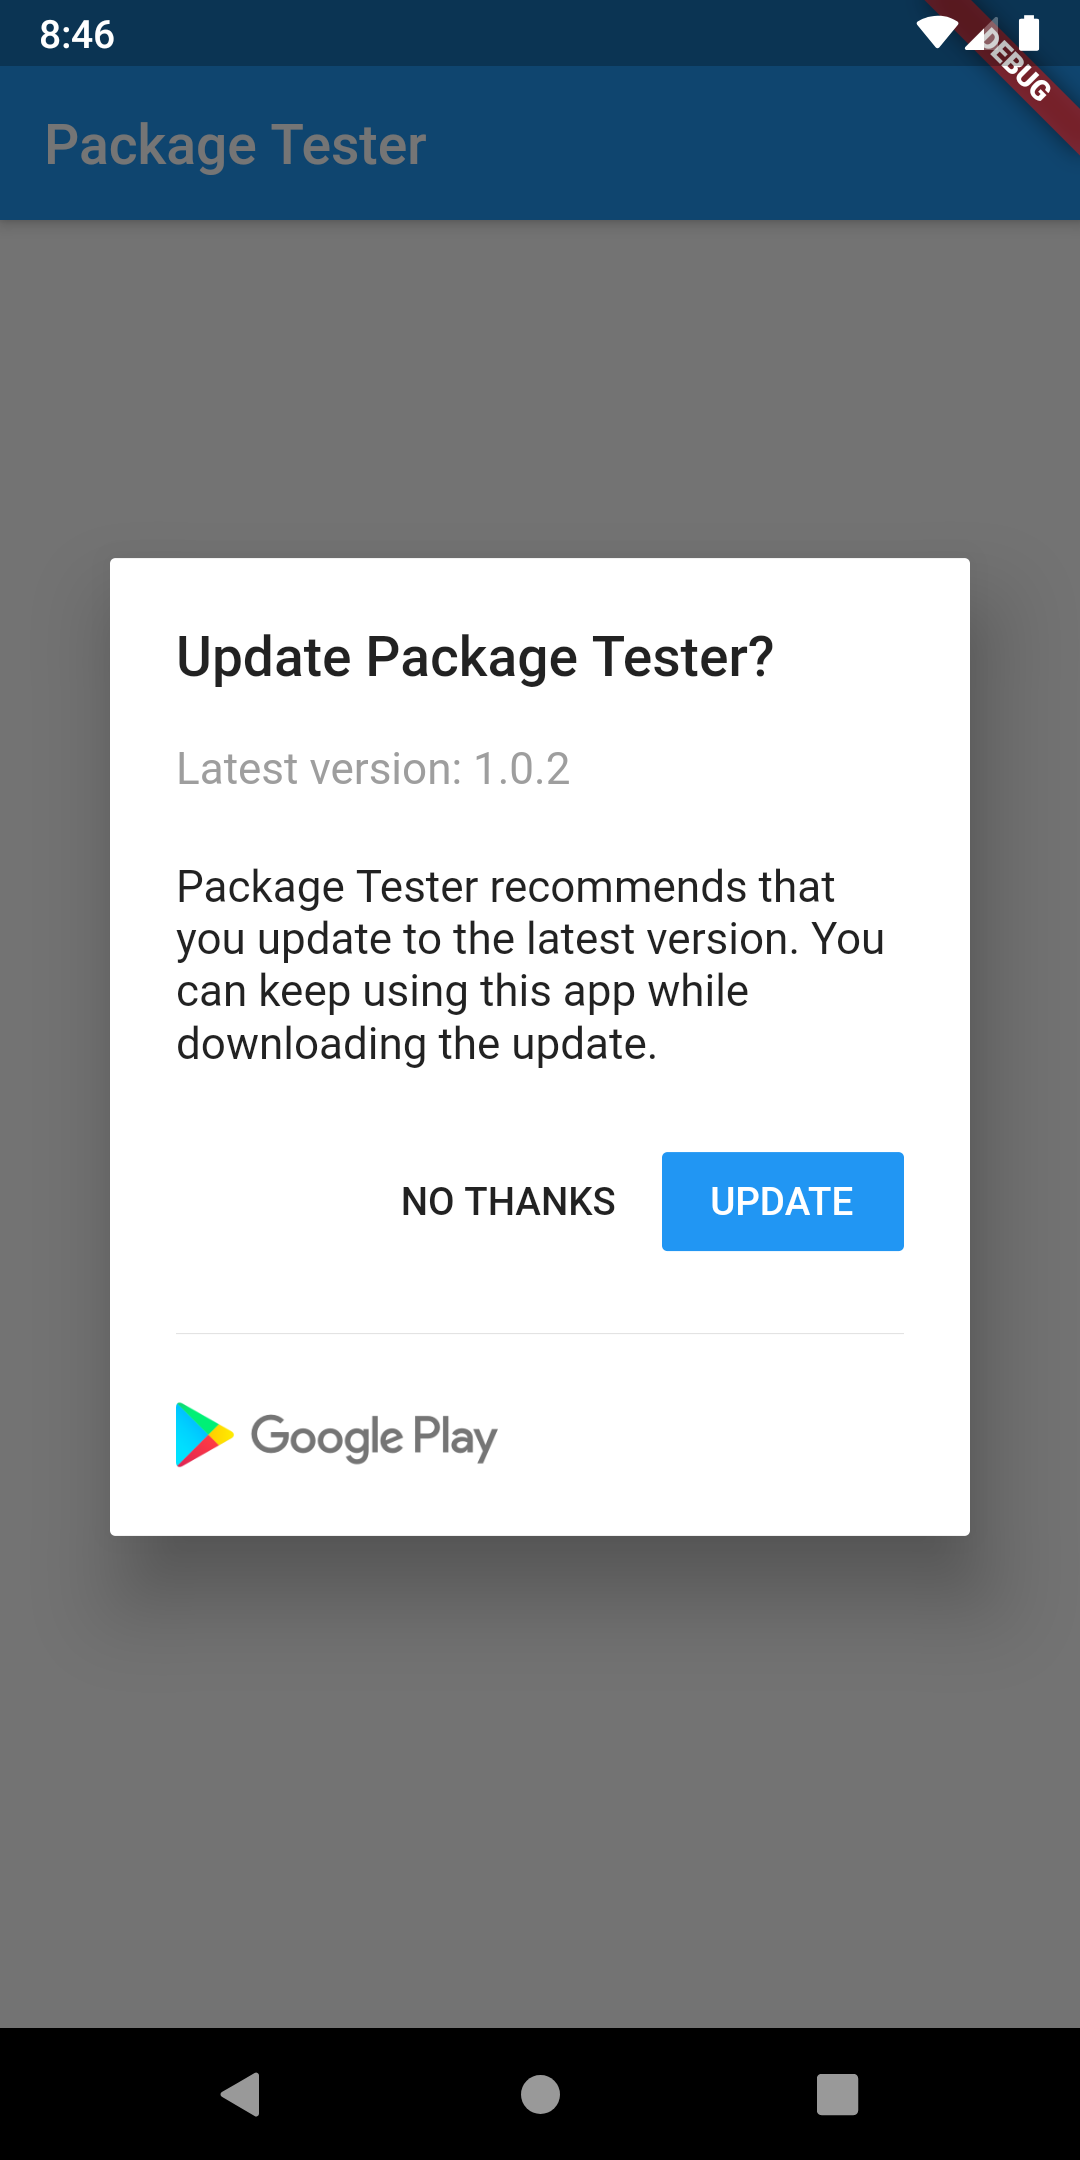
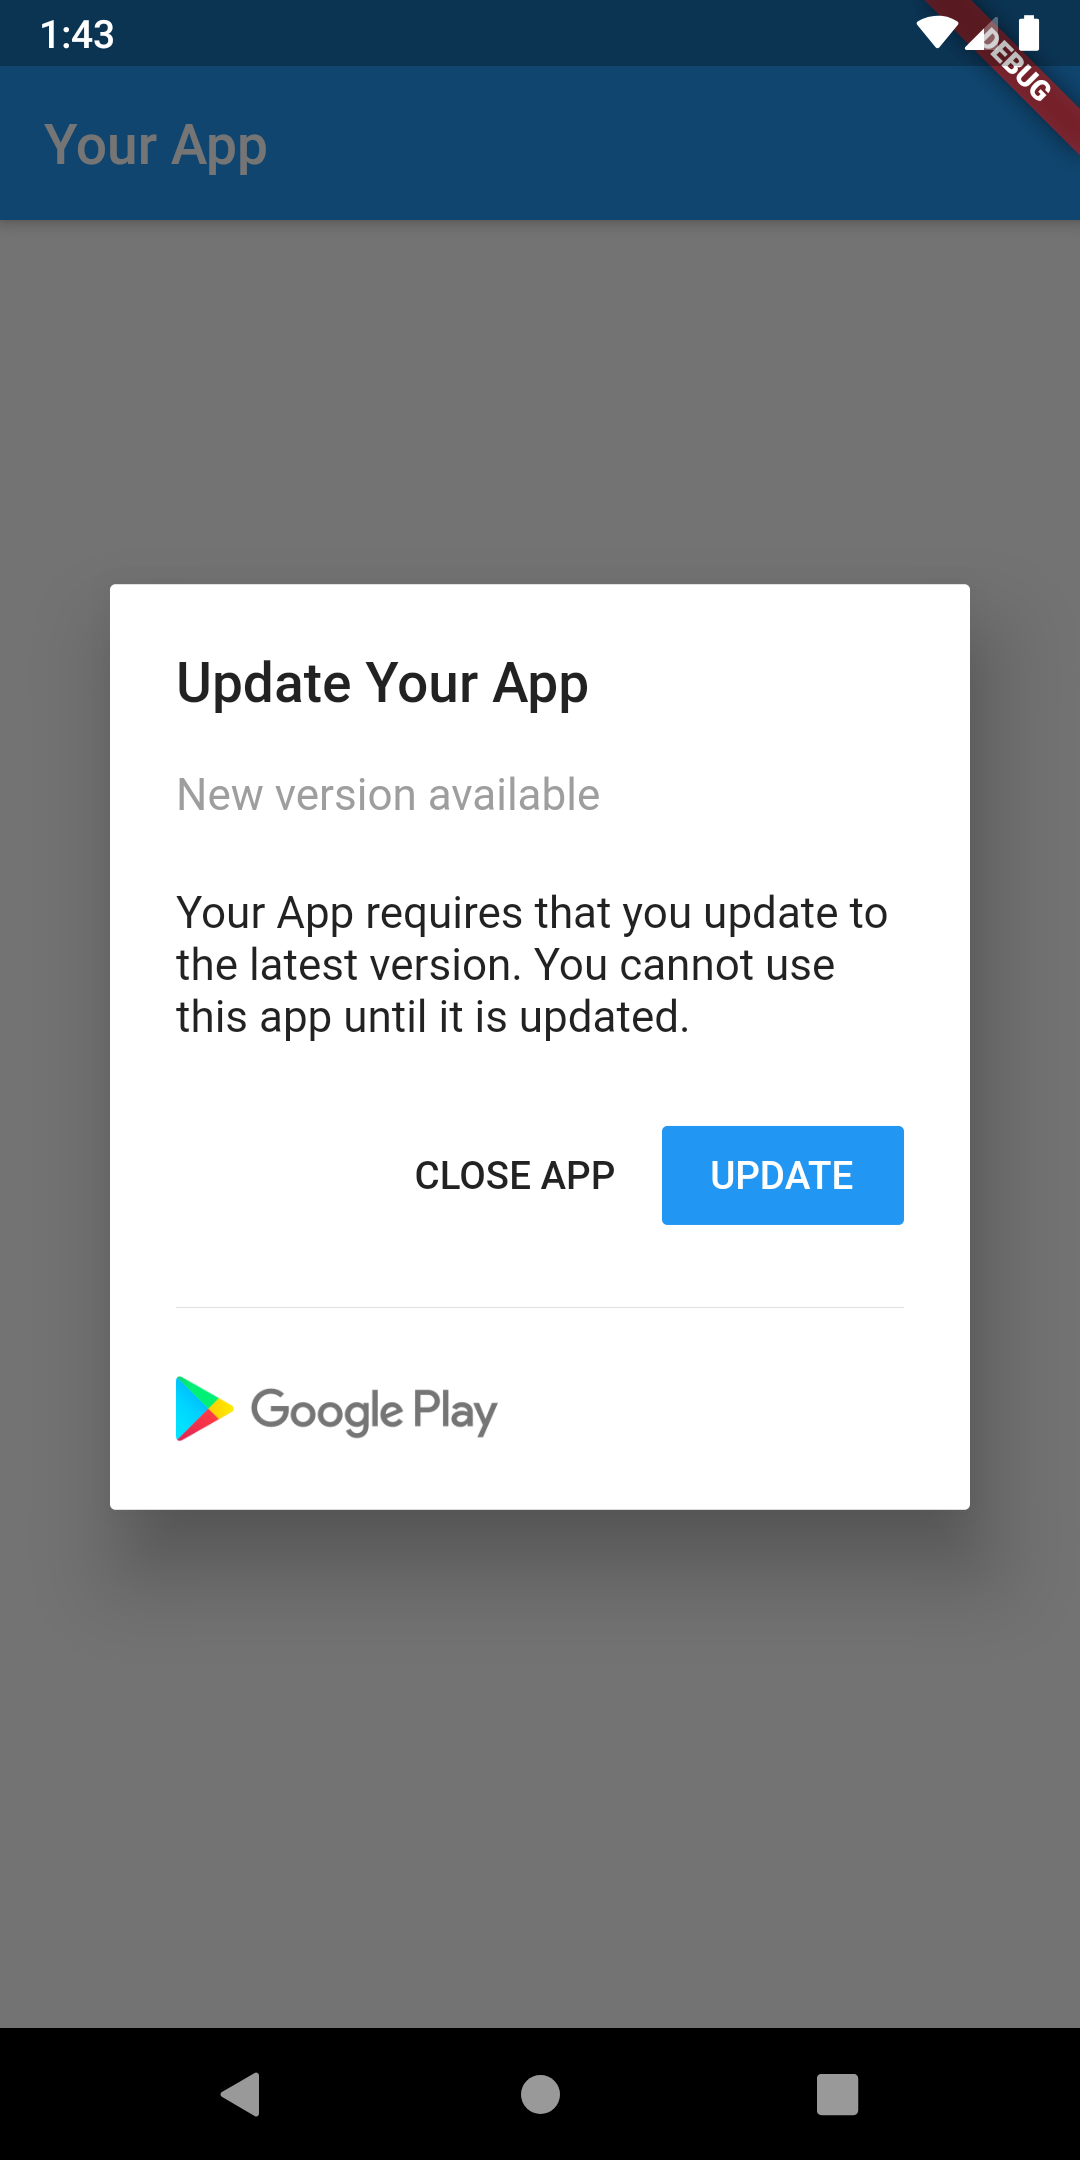
Change checkVersion params
Because the alert only displayed when there is a true / false
condition that requires an update based on the user defined logic.

diff --git a/lib/src/native_updater.dart b/lib/src/native_updater.dart
@@ -8,7 +8,6 @@ import 'upgrade_cupertino_alert.dart';
 
 class NativeUpdater {
   String _appName;
-  String _latestVersion;
   String _packageName;
   String _appStoreUrl;
 
@@ -18,41 +17,35 @@ class NativeUpdater {
   NativeUpdater._internal();
 
   /// Checking New Version
-  static versionCheck({
+  static displayUpdateAlert({
     @required BuildContext context,
+    @required bool requiresUpdate,
     String appStoreUrl,
   }) async {
     /// Get Current installed version of app
     final PackageInfo info = await PackageInfo.fromPlatform();
-    String currentVersion = info.version.trim().replaceAll("[a-zA-Z]|-", "");
 
-    // TODO: API call to server to get the latest App Version (sent in HTTP Headers)
-    String latestVersion = '<Latest Version>';
-
-    if (currentVersion != latestVersion) {
+    if (requiresUpdate) {
       _singleton._appName = info.appName;
-      _singleton._latestVersion = latestVersion;
       _singleton._packageName = info.packageName;
       _singleton._appStoreUrl = appStoreUrl;
-      _singleton._showUpgradeAlertDialog(context);
+      _singleton._showUpdateAlertDialog(context);
     }
   }
 
   /// Base Alert Dialog
-  void _showUpgradeAlertDialog(BuildContext context) {
+  void _showUpdateAlertDialog(BuildContext context) {
     Widget alert;
 
     /// Set up the AlertDialog
     if (Platform.isIOS) {
       alert = UpgradeCupertinoAlert(
         appName: _appName,
-        newVersion: _latestVersion,
         appStoreUrl: _appStoreUrl,
       );
     } else {
       alert = UpgradeMaterialAlert(
         appName: _appName,
-        newVersion: _latestVersion,
         packageName: _packageName,
       );
     }
@@ -60,6 +53,7 @@ class NativeUpdater {
     /// Show the Dialog
     showDialog(
       context: context,
+      barrierDismissible: false,
       builder: (BuildContext context) {
         return alert;
       },

diff --git a/lib/src/updgrade_material_alert.dart b/lib/src/updgrade_material_alert.dart
@@ -1,25 +1,23 @@
+import 'dart:io';
+
 import 'package:flutter/material.dart';
 import 'package:url_launcher/url_launcher.dart';
 
 class UpgradeMaterialAlert extends StatelessWidget {
   final String appName;
-  final String newVersion;
   final String packageName;
 
   UpgradeMaterialAlert({
     @required this.appName,
-    @required this.newVersion,
     @required this.packageName,
   });
 
   @override
   Widget build(BuildContext context) {
     /// Set up the Buttons
-    Widget noThanksButton = FlatButton(
-      child: Text("NO THANKS"),
-      onPressed: () {
-        Navigator.of(context).pop();
-      },
+    Widget closeUpButton = FlatButton(
+      child: Text("CLOSE APP"),
+      onPressed: () => exit(0),
     );
 
     Widget updateButton = FlatButton(
@@ -34,24 +32,24 @@ class UpgradeMaterialAlert extends StatelessWidget {
     );
 
     return AlertDialog(
-      title: Text("Update $appName?"),
+      title: Text("Update $appName"),
       content: Column(
         mainAxisSize: MainAxisSize.min,
         crossAxisAlignment: CrossAxisAlignment.start,
         children: <Widget>[
           Text(
-            'Latest version: $newVersion',
+            'New version available',
             style: TextStyle(color: Colors.grey),
           ),
           SizedBox(height: 24.0),
           Text(
-            "$appName recommends that you update to the latest version. You can keep using this app while downloading the update.",
+            "$appName requires that you update to the latest version. You cannot use this app until it is updated.",
           ),
           SizedBox(height: 24.0),
           Row(
             mainAxisAlignment: MainAxisAlignment.end,
             children: <Widget>[
-              noThanksButton,
+              closeUpButton,
               updateButton,
             ],
           ),

diff --git a/lib/src/upgrade_cupertino_alert.dart b/lib/src/upgrade_cupertino_alert.dart
@@ -1,26 +1,24 @@
+import 'dart:io';
+
 import 'package:flutter/cupertino.dart';
 import 'package:flutter/material.dart';
 import 'package:url_launcher/url_launcher.dart';
 
 class UpgradeCupertinoAlert extends StatelessWidget {
   final String appName;
-  final String newVersion;
   final String appStoreUrl;
 
   UpgradeCupertinoAlert({
     @required this.appName,
-    @required this.newVersion,
     @required this.appStoreUrl,
   });
 
   @override
   Widget build(BuildContext context) {
     /// Set up the Buttons
-    Widget laterButton = CupertinoDialogAction(
-      child: Text('Later'),
-      onPressed: () {
-        Navigator.of(context).pop();
-      },
+    Widget closeAppButton = CupertinoDialogAction(
+      child: Text('Close App'),
+      onPressed: () => exit(0),
     );
 
     Widget updateButton = CupertinoDialogAction(
@@ -33,11 +31,11 @@ class UpgradeCupertinoAlert extends StatelessWidget {
       content: Padding(
         padding: EdgeInsets.only(top: 8.0),
         child: Text(
-          "A new version of $appName is available. Please update to version $newVersion now.",
+          "$appName requires that you update to the latest version. You cannot use this app until it is updated.",
         ),
       ),
       actions: [
-        laterButton,
+        closeAppButton,
         updateButton,
       ],
     );

diff --git a/README.md b/README.md
@@ -1,8 +1,8 @@
 # native_updater
 
-Flutter package for prompting users to upgrade with native dialog when there is a newer version of the app in the store.
+Flutter package for prompting users to update with native dialog when there is a newer version of the app in the store.
 
-When a newer app version is availabe in the app store, a simple alert prompt widget. With today's modern app stores, there is little need to persuade users to upgrade because most of them are already using the auto upgrade feature. However, there may be times when an app needs to be updated more quickly than usual, and nagging a user to upgrade will entice the upgrade sooner. Also, with Flutter supporting more than just Android and iOS app stores in the future, it will become more likely that users on other app stores need to be nagged about upgrading.
+When a newer app version is available via user defined logic, a simple alert prompt widget is displayed. With today's modern app stores, there is little need to persuade users to update because most of them are already using the auto update feature. However, there may be times when an app needs to be updated more quickly than usual, and nagging a user to upgrade will entice the update sooner.
 
 The UI comes in two flavors: Material Design for Android and Cupertino for iOS. The [UpgradeMaterialAlert](#material-alert-example) widget is used to display the
 native Android alert prompt, and the [UpgradeCupertinoAlert](#cupertino-alert-example) widget is used to display the native iOS alert prompt.
@@ -35,11 +35,12 @@ Just add this code inside the `initState()` life cycle method on the first home 
 
 ```dart
 Future.delayed(Duration.zero, () {
-      NativeUpdater.versionCheck(
-        context: context,
-        appStoreUrl: '<Your App Store URL>',
-      );
-    });
+  NativeUpdater.displayUpdateAlert(
+    context: context,
+    requiresUpdate: true,
+    appStoreUrl: '<Your App Store URL>',
+  );
+});
 ```
 
 ## Full Example
@@ -71,8 +72,9 @@ class _HomeState extends State<Home> {
     super.initState();
 
     Future.delayed(Duration.zero, () {
-      NativeUpdater.versionCheck(
+      NativeUpdater.displayUpdateAlert(
         context: context,
+        requiresUpdate: true,
         appStoreUrl: '<Your App Store URL>',
       );
     });
@@ -82,7 +84,7 @@ class _HomeState extends State<Home> {
   Widget build(BuildContext context) {
     return Scaffold(
       appBar: AppBar(
-        title: Text('Package Tester'),
+        title: Text('Your App'),
       ),
       body: Center(
         child: Text('Testing...'),
@@ -90,7 +92,6 @@ class _HomeState extends State<Home> {
     );
   }
 }
-
 ```
 
 ## Screenshot of Material Alert
